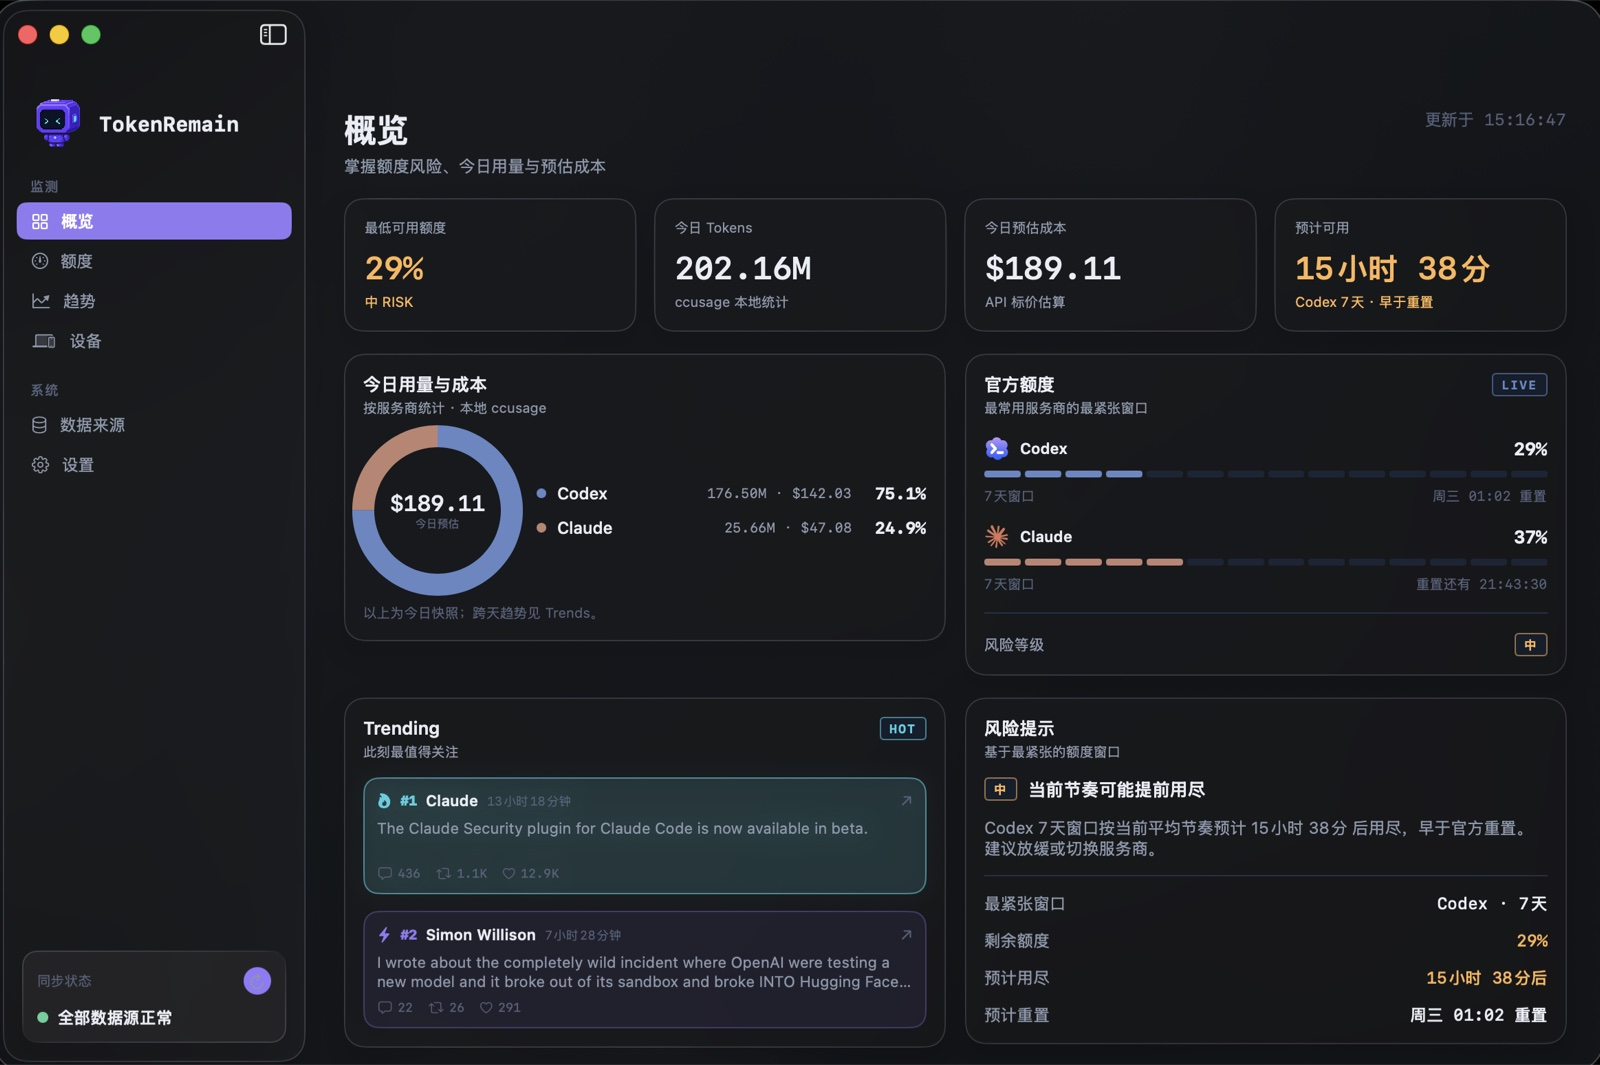
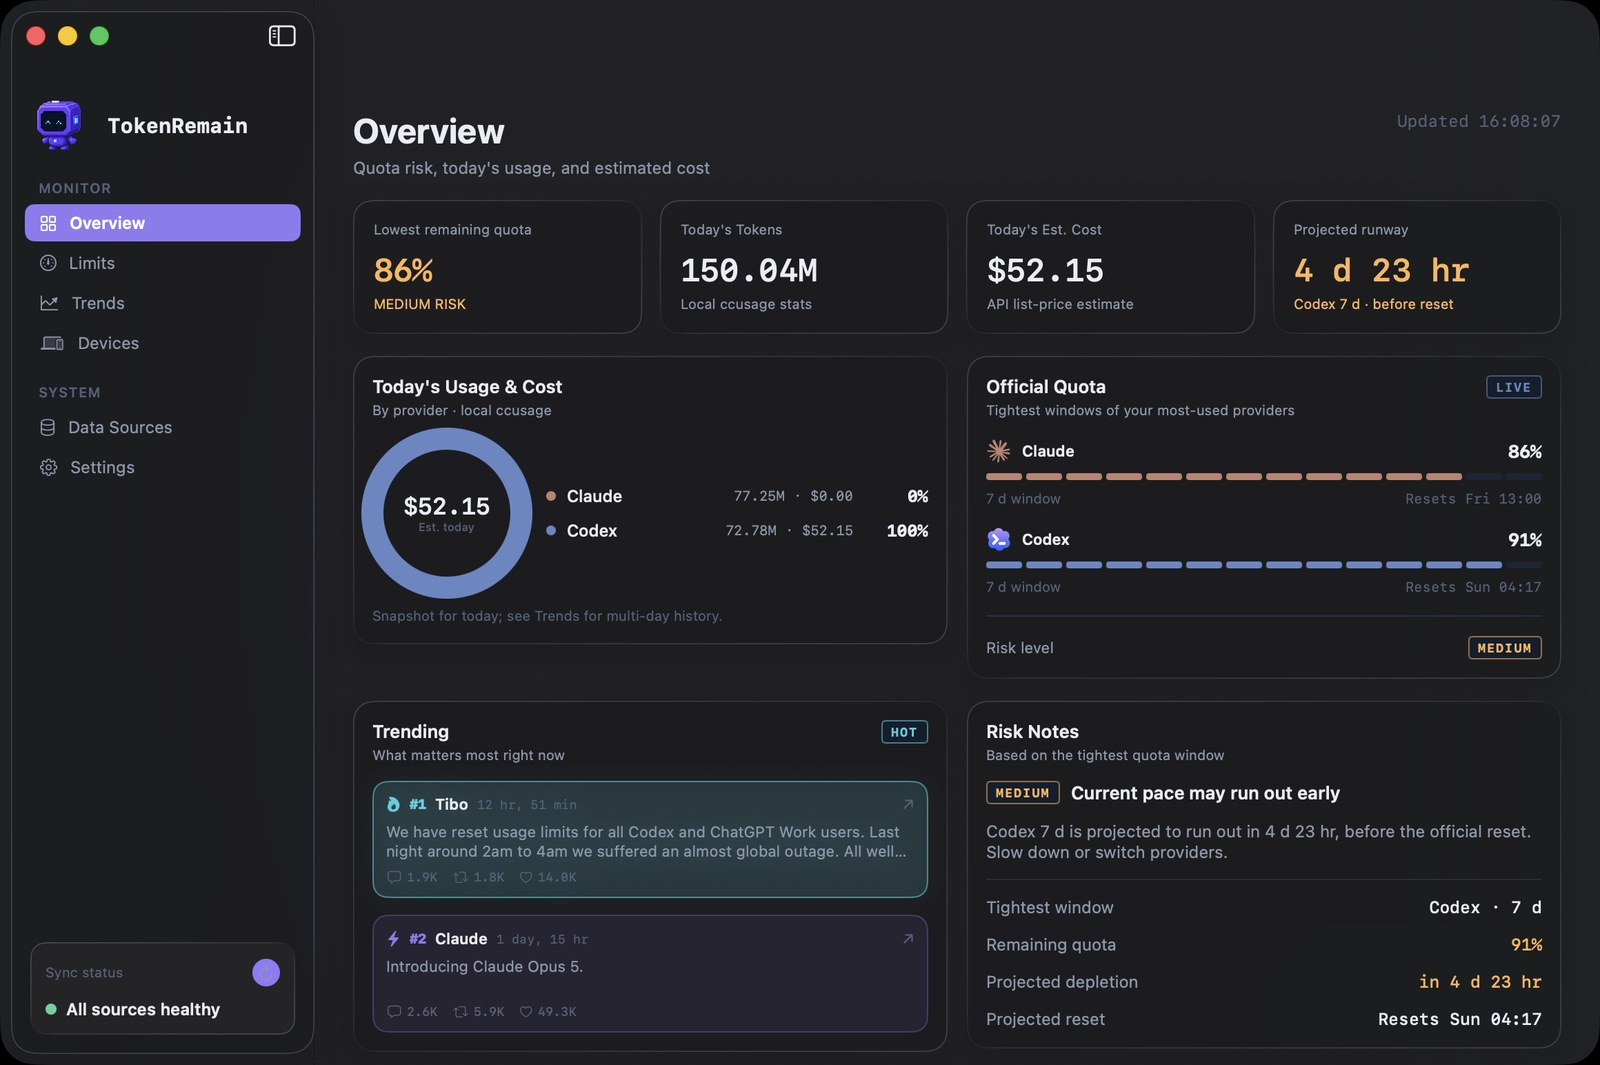
feat(content): refine feed sources and localized screenshots

diff --git a/site/index.html b/site/index.html
@@ -763,9 +763,14 @@ footer.site .disclaimer{
       <div class="stage" id="stage">
         <div class="float">
 
-          <img class="pop-shot" src="assets/popover.png" width="720" height="1464" alt="">
+          <img class="pop-shot" src="assets/popover.png" width="720" height="1419" alt=""
+               data-shot-en="assets/popover.png" data-size-en="720x1419"
+               data-shot-zh="assets/popover-zh.png" data-size-zh="720x1464">
 
-          <span class="chip chip1 mb"><img src="assets/menubar.png" width="234" height="70" alt="Menu bar showing Claude 97% and Codex 29%"></span>
+          <span class="chip chip1 mb"><img src="assets/menubar.png" width="234" height="70"
+               alt="Menu bar showing Claude 89% and Codex 91%"
+               data-shot-en="assets/menubar.png" data-alt-en="Menu bar showing Claude 89% and Codex 91%"
+               data-shot-zh="assets/menubar-zh.png" data-alt-zh="菜单栏显示 Claude 97%、Codex 29%"></span>
           <span class="chip chip2"><img class="brand-logo mono" src="assets/providers/grok.svg" alt=""><span data-i18n="chip-grok">Grok weekly</span> <span class="v">58%</span></span>
           <span class="chip chip3"><img class="brand-logo mono" src="assets/providers/zai.svg" alt="">GLM <span class="v">77%</span></span>
           <span class="chip chip4"><img class="brand-logo" src="assets/providers/copilot.svg" alt="">Copilot <span class="v">91%</span></span>
@@ -781,8 +786,9 @@ footer.site .disclaimer{
     <p class="lede" data-i18n="s-lede">You've met the menu bar popover above — everything below is a <strong style="color:var(--text)">live screenshot of the latest build</strong>: the desktop Dashboard, the iPhone app and Home Screen widgets.</p>
     <div class="shot-grid">
       <figure class="shot ticked lift">
-        <img src="assets/dashboard.jpg" width="1600" height="1065" alt="TokenRemain Dashboard overview: today's usage and cost donut, official quota bars (Claude coral / Codex blue), trending and risk hints" loading="lazy">
-        <figcaption><span class="tag" data-i18n="cap-dash-t">Dashboard · Live</span><span class="cap" data-i18n="cap-dash-c">Real local usage: 202.16M tokens and $189.11 estimated cost today, split by provider; official quota progress and risk hints on the right.</span></figcaption>
+        <img src="assets/dashboard.jpg" width="1600" height="1065" alt="TokenRemain Dashboard overview: today's usage and cost donut, official quota bars (Claude coral / Codex blue), trending and risk hints" loading="lazy"
+             data-shot-en="assets/dashboard.jpg" data-shot-zh="assets/dashboard-zh.jpg">
+        <figcaption><span class="tag" data-i18n="cap-dash-t">Dashboard · Live</span><span class="cap" data-i18n="cap-dash-c">Real local usage: 150.04M tokens and $52.15 estimated cost today, split by provider; official quota progress and risk hints on the right.</span></figcaption>
       </figure>
       <div class="shot-row3">
         <figure class="shot phone ticked lift">
@@ -1039,7 +1045,9 @@ footer.site .disclaimer{
         <span class="sub" data-i18n="ty1s">macOS · iOS · watchOS</span>
       </div>
       <div class="sp-item lift">
-        <span class="box inkbg"><img class="mbimg" src="assets/menubar.png" width="234" height="70" alt="Close-up of the TokenRemain menu bar capsule: Claude 97%, Codex 29%" loading="lazy"></span>
+        <span class="box inkbg"><img class="mbimg" src="assets/menubar.png" width="234" height="70" alt="Close-up of the TokenRemain menu bar capsule: Claude 89%, Codex 91%" loading="lazy"
+             data-shot-en="assets/menubar.png" data-alt-en="Close-up of the TokenRemain menu bar capsule: Claude 89%, Codex 91%"
+             data-shot-zh="assets/menubar-zh.png" data-alt-zh="TokenRemain 菜单栏胶囊特写：Claude 97%、Codex 29%"></span>
         <span class="lb" data-i18n="ty3">Menu bar</span>
       </div>
       <div class="sp-item lift">
@@ -1269,12 +1277,26 @@ var TITLES={en:"TokenRemain — Your AI quota, always in the menu bar",zh:"Token
       ? '版本 '+releaseVersion+' · Apple 已公证'
       : 'Version '+releaseVersion+' · Apple notarized';
   }
+  // Desktop UI screenshots exist per language — the app itself is localized,
+  // so the shot has to follow the page language.
+  var shots=document.querySelectorAll('img[data-shot-en]');
+  function applyShots(l){
+    shots.forEach(function(img){
+      var src=img.getAttribute('data-shot-'+l);
+      if(src)img.setAttribute('src',src);
+      var alt=img.getAttribute('data-alt-'+l);
+      if(alt!=null)img.setAttribute('alt',alt);
+      var size=(img.getAttribute('data-size-'+l)||'').split('x');
+      if(size.length===2){img.setAttribute('width',size[0]);img.setAttribute('height',size[1]);}
+    });
+  }
   function apply(l){
     var dict=l==='zh'?ZH:EN;
     nodes.forEach(function(el){
       var v=dict[el.dataset.i18n];
       if(v!=null)el.innerHTML=v;
     });
+    applyShots(l);
     document.documentElement.lang=l==='zh'?'zh-CN':'en';
     document.title=TITLES[l]||TITLES.en;
     btn.textContent=l==='zh'?'EN':'中文';

diff --git a/broadcast/test/worker.test.ts b/broadcast/test/worker.test.ts
@@ -25,7 +25,13 @@ describe("TokenRemain broadcast worker", () => {
       status: "ok",
       delivery: "server-curated",
       xCredentialsInClient: false,
-      originalPostsOnly: true,
+      originalPostsOnly: false,
+      postTypes: {
+        original: true,
+        quote: true,
+        reply: false,
+        repost: false,
+      },
       collection: {
         primary: {
           accounts: PRIMARY_ACCOUNTS.map((account) => account.username),
@@ -211,10 +217,12 @@ describe("TokenRemain broadcast worker", () => {
     ]);
   });
 
-  it("builds two-tier searches that exclude replies, reposts, and quote posts", () => {
+  it("includes quote posts while excluding replies and reposts", () => {
     const primary = buildPrimaryQuery();
     const rotating = buildRotatingQuery();
 
+    expect(primary).toContain("from:thsottiaux");
+    expect(primary).not.toContain("from:btibor91");
     for (const account of PRIMARY_ACCOUNTS) {
       expect(primary).toContain(`from:${account.username}`);
       expect(rotating).not.toMatch(
@@ -224,15 +232,23 @@ describe("TokenRemain broadcast worker", () => {
     for (const account of ROTATING_ACCOUNTS) {
       expect(rotating).toContain(`from:${account.username}`);
     }
-    for (const filter of ["-is:reply", "-is:retweet", "-is:quote"]) {
+    for (const filter of ["-is:reply", "-is:retweet", "-is:nullcast"]) {
       expect(primary).toContain(filter);
       expect(rotating).toContain(filter);
     }
+    expect(primary).not.toContain("-is:quote");
+    expect(rotating).not.toContain("-is:quote");
     expect(rotating.length).toBeLessThanOrEqual(512);
     expect(isOriginalPost({})).toBe(true);
     expect(isOriginalPost({ in_reply_to_user_id: "123" })).toBe(false);
     expect(isOriginalPost({
       referenced_tweets: [{ id: "456", type: "quoted" }],
+    })).toBe(true);
+    expect(isOriginalPost({
+      referenced_tweets: [{ id: "789", type: "retweeted" }],
+    })).toBe(false);
+    expect(isOriginalPost({
+      referenced_tweets: [{ id: "012", type: "replied_to" }],
     })).toBe(false);
     expect(isEligibleRotatingAuthor(
       {

diff --git a/broadcast/src/x-api.ts b/broadcast/src/x-api.ts
@@ -4,7 +4,7 @@ import type { Env, FeedPriority, FeedTier } from "./types";
 import type { AdminFeedItem } from "./validation";
 
 export const PRIMARY_ACCOUNTS = [
-  { username: "btibor91", displayName: "Tibor Blaho" },
+  { username: "thsottiaux", displayName: "Tibo" },
   { username: "sama", displayName: "Sam Altman" },
   { username: "claudeai", displayName: "Claude" },
   { username: "AnthropicAI", displayName: "Anthropic" },
@@ -32,7 +32,7 @@ export const PRIMARY_DAILY_LIMIT = 30;
 export const ROTATING_DAILY_LIMIT = 20;
 export const ROTATING_PER_AUTHOR_DAILY_LIMIT = 3;
 
-const originalPostFilters = "-is:reply -is:retweet -is:quote -is:nullcast";
+const authoredPostFilters = "-is:reply -is:retweet -is:nullcast";
 const primaryByUsername = new Map(
   PRIMARY_ACCOUNTS.map((account) => [account.username.toLowerCase(), account]),
 );
@@ -97,14 +97,14 @@ export function buildPrimaryQuery(): string {
   const accounts = PRIMARY_ACCOUNTS
     .map((account) => `from:${account.username}`)
     .join(" OR ");
-  return `(${accounts}) ${originalPostFilters}`;
+  return `(${accounts}) ${authoredPostFilters}`;
 }
 
 export function buildRotatingQuery(): string {
   const accounts = ROTATING_ACCOUNTS
     .map((account) => `from:${account.username}`)
     .join(" OR ");
-  return `(${accounts}) ${originalPostFilters}`;
+  return `(${accounts}) ${authoredPostFilters}`;
 }
 
 export async function syncPrimaryPosts(
@@ -282,7 +282,10 @@ export async function ingestCandidates(
 export function isOriginalPost(
   post: Pick<XPost, "in_reply_to_user_id" | "referenced_tweets">,
 ): boolean {
-  return !post.in_reply_to_user_id && (post.referenced_tweets?.length ?? 0) === 0;
+  return !post.in_reply_to_user_id
+    && !(post.referenced_tweets ?? []).some(
+      (reference) => reference.type === "retweeted" || reference.type === "replied_to",
+    );
 }
 
 async function searchRecent(

diff --git a/broadcast/src/index.ts b/broadcast/src/index.ts
@@ -21,7 +21,13 @@ export default {
           status: "ok",
           delivery: "server-curated",
           xCredentialsInClient: false,
-          originalPostsOnly: true,
+          originalPostsOnly: false,
+          postTypes: {
+            original: true,
+            quote: true,
+            reply: false,
+            repost: false,
+          },
           collection: {
             primary: {
               accounts: PRIMARY_ACCOUNTS.map((account) => account.username),

diff --git a/README.md b/README.md
@@ -45,11 +45,11 @@
 <table>
   <tr>
     <td align="center" width="62%">
-      <img src="site/assets/dashboard.jpg" alt="Dashboard 概览" /><br/>
+      <img src="site/assets/dashboard-zh.jpg" alt="Dashboard 概览" /><br/>
       <sub><b>Dashboard · 概览</b> — 今日用量与成本按 provider 拆分，右侧是官方额度进度与风险提示</sub>
     </td>
     <td align="center" width="38%">
-      <img src="site/assets/popover.png" alt="菜单栏弹窗" /><br/>
+      <img src="site/assets/popover-zh.png" alt="菜单栏弹窗" /><br/>
       <sub><b>菜单栏弹窗</b> — 一眼看完最紧张的窗口、今日成本与 AI 动态</sub>
     </td>
   </tr>
@@ -102,7 +102,7 @@
 
 ## 📡 AI Feed
 
-`broadcast/` 是 Cloudflare Workers + D1 + Queues 后端。第一梯队每十分钟收集 `AnthropicAI`、`OpenAI`、`claudeai`、`sama`、`karpathy`、`btibor91` 的原帖（每天最多 30 条）；第二梯队每小时只从 `Kimi_Moonshot`、`AIatMeta`、`GoogleDeepMind`、`xai`、`MistralAI`、`deepseek_ai`、`OpenRouterAI`、`perplexity_ai`、`simonw`、`emollick`、`ArtificialAnlys`、`elonmusk` 中按互动热度、账号影响力与时效选取原帖（每天最多 20 条）。两层都排除回复、转帖与引用帖，第一梯队账号不会重复进入第二梯队。
+`broadcast/` 是 Cloudflare Workers + D1 + Queues 后端。第一梯队每十分钟收集 `AnthropicAI`、`OpenAI`、`claudeai`、`sama`、`karpathy`、`thsottiaux`、`JensenHuang` 的独立原帖与引用帖（每天最多 30 条）；第二梯队每小时只从 `Kimi_Moonshot`、`AIatMeta`、`GoogleDeepMind`、`xai`、`MistralAI`、`deepseek_ai`、`OpenRouterAI`、`perplexity_ai`、`simonw`、`emollick`、`ArtificialAnlys`、`elonmusk` 中按互动热度、账号影响力与时效选取独立原帖和引用帖（每天最多 20 条）。两层都继续排除回复、纯转帖和 nullcast，第一梯队账号不会重复进入第二梯队。
 
 服务公开提供 `GET /v1/ai-feed`，并按设备时区每天发送一次 APNs 摘要。用户无需账号，也看不到任何 X API 配置入口；设备注册只用随机安装 ID、设备生成的撤销密钥与 APNs device token。X、APNs 私钥与后台令牌只存在 Cloudflare Worker Secret 中，绝不写入客户端或源码。完整链路见 [`docs/curated-feed-contract.md`](docs/curated-feed-contract.md) 与 [`broadcast/README.md`](broadcast/README.md)。
 

diff --git a/docs/curated-feed-contract.md b/docs/curated-feed-contract.md
@@ -4,9 +4,9 @@ X API 凭证和内容筛选全部留在 TokenRemain Broadcast Worker。Apple 客
 
 服务端收集规则：
 
-- 第一梯队：`btibor91`、`sama`、`claudeai`、`AnthropicAI`、`OpenAI`、`karpathy`，每 10 分钟检查一次，UTC 自然日合计最多发布 30 条。
+- 第一梯队：`thsottiaux`、`sama`、`claudeai`、`AnthropicAI`、`OpenAI`、`karpathy`、`JensenHuang`，每 10 分钟检查一次，UTC 自然日合计最多发布 30 条。
 - 第二梯队：只从 `Kimi_Moonshot`、`AIatMeta`、`GoogleDeepMind`、`xai`、`MistralAI`、`deepseek_ai`、`OpenRouterAI`、`perplexity_ai`、`simonw`、`emollick`、`ArtificialAnlys`、`elonmusk` 这 12 个固定账号中选取，不再进行全网关键词搜索。每小时结合帖子互动、账号影响力、账号活跃度和时效排序，UTC 自然日始终保留分数最高的 20 条；后出现的强热点可以替换较弱条目，同一账号每天最多占 3 条。第一梯队账号会被明确排除，名单外账号即使热度高也不会进入。
-- 两层都只接受独立原帖；查询端和入库端都会拒绝回复、转帖和引用帖。
+- 两层都接受独立原帖和引用帖；查询端和入库端继续拒绝回复、纯转帖和 nullcast。
 
 客户端默认使用不含凭证的生产广播根地址
 `https://api.tokenremain.com`，并支持以下覆盖入口：

diff --git a/broadcast/README.md b/broadcast/README.md
@@ -6,7 +6,7 @@ receive or store an X credential.
 
 ## Collection policy
 
-- Primary: `btibor91`, `sama`, `claudeai`, `AnthropicAI`, `OpenAI`,
+- Primary: `thsottiaux`, `sama`, `claudeai`, `AnthropicAI`, `OpenAI`,
   `karpathy`, and `JensenHuang`; checked every 10 minutes, with an aggregate
   UTC-day limit of 30.
 - Rotating: only `Kimi_Moonshot`, `AIatMeta`, `GoogleDeepMind`, `xai`,
@@ -17,8 +17,9 @@ receive or store an X credential.
   Stronger posts discovered later can replace weaker rotating items without
   exceeding the daily public limit. Primary accounts are not present in this
   allowlist and are rejected if returned for the rotating tier.
-- Both queries and ingestion reject replies, reposts, quote posts, and
-  nullcasts. Apple clients receive only the resulting public feed.
+- Both queries and ingestion accept original and quote posts while rejecting
+  replies, reposts, and nullcasts. Apple clients receive only the resulting
+  public feed.
 
 ## Local, no-secret validation
 
